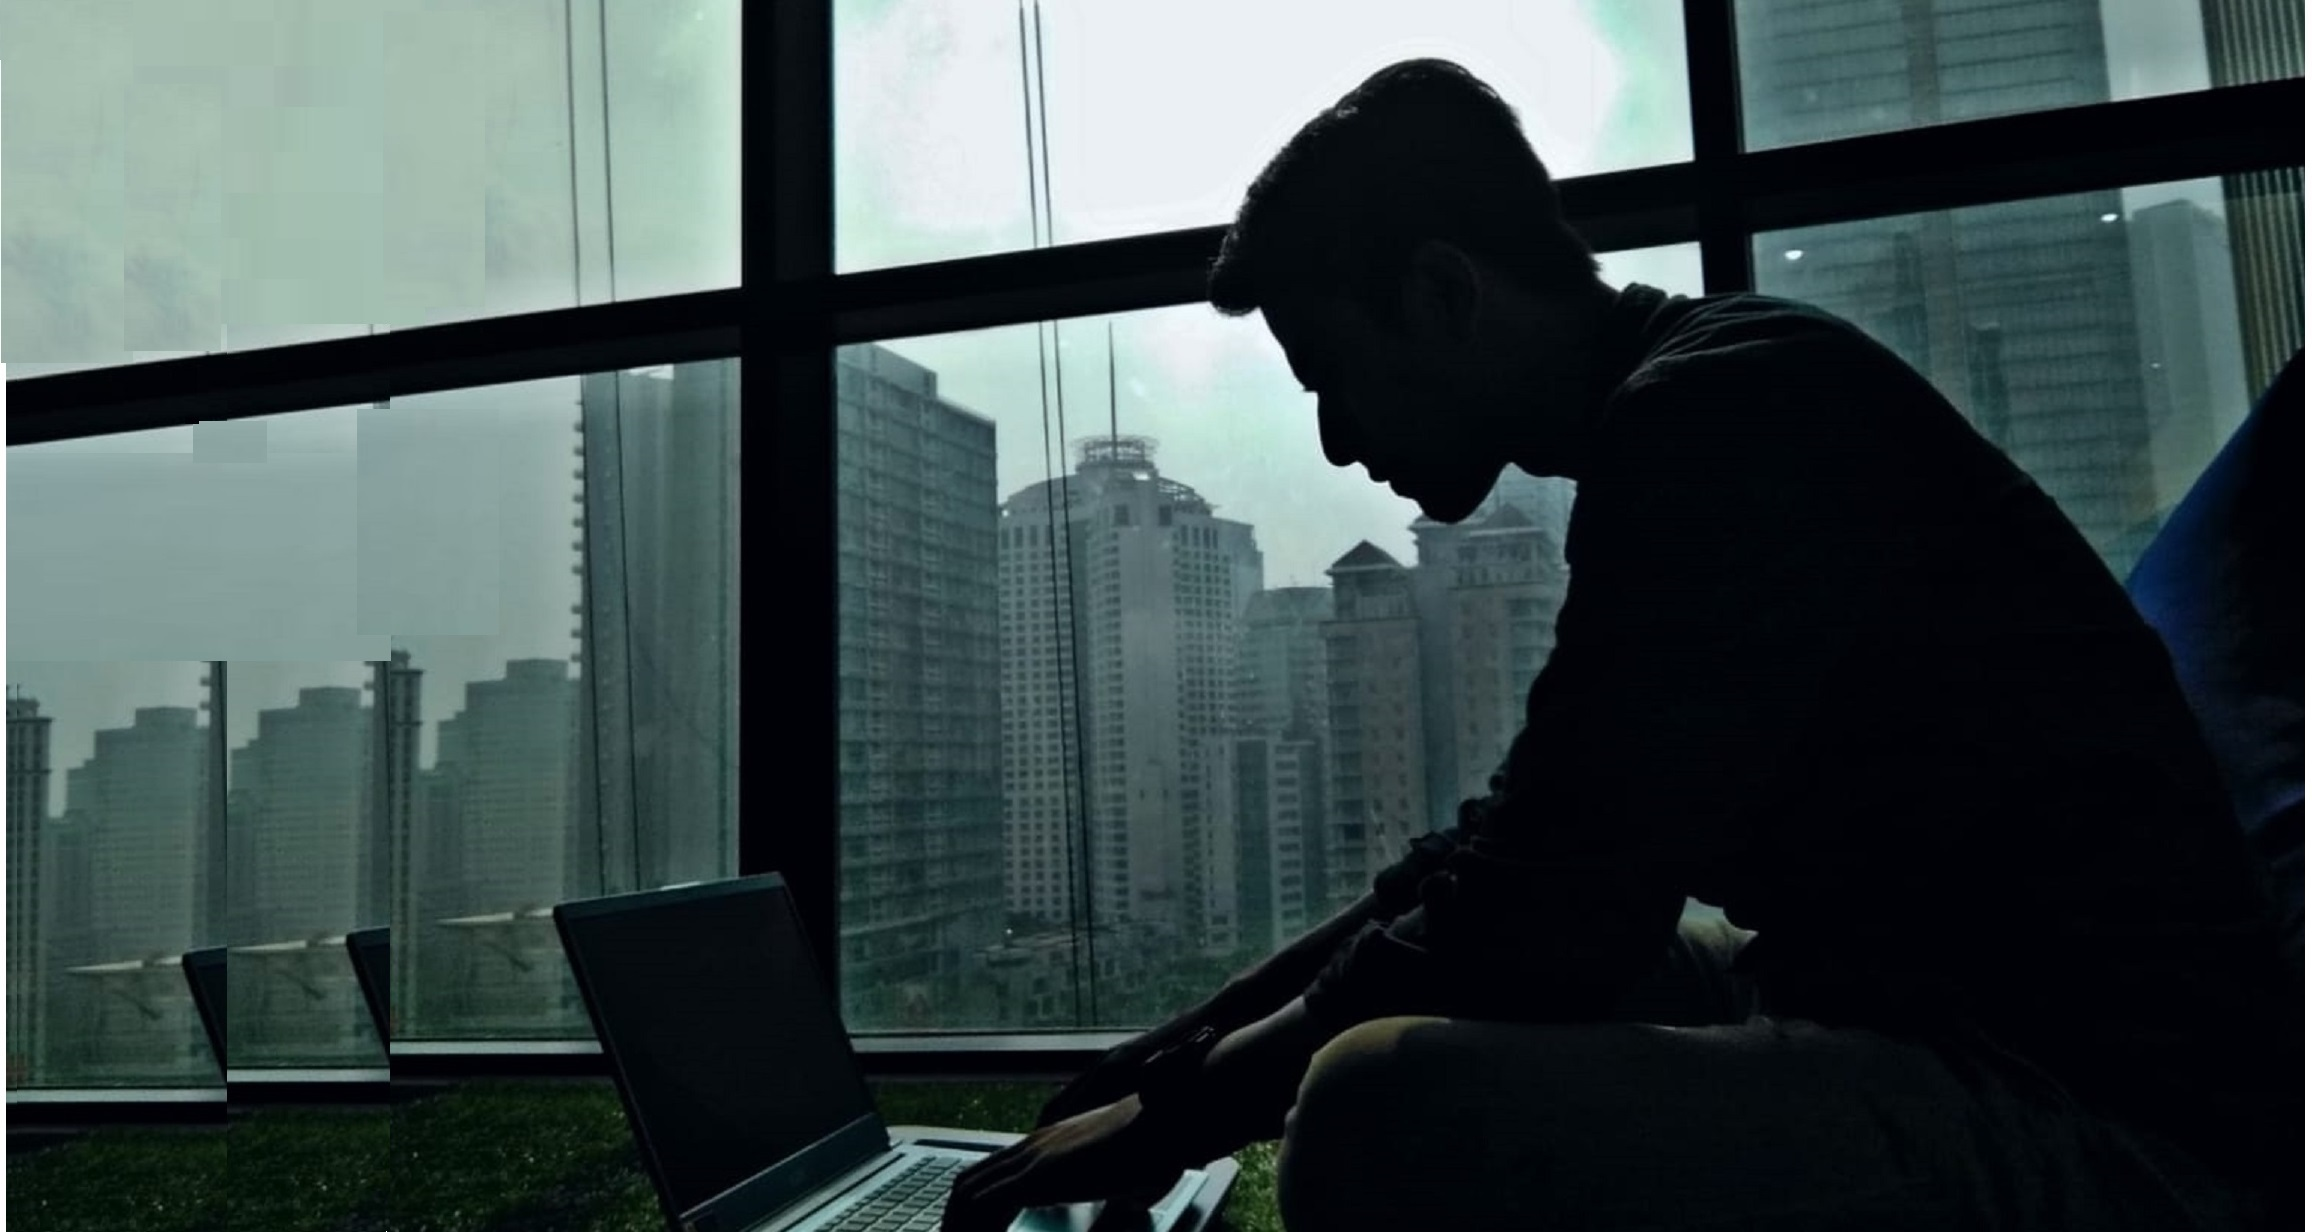
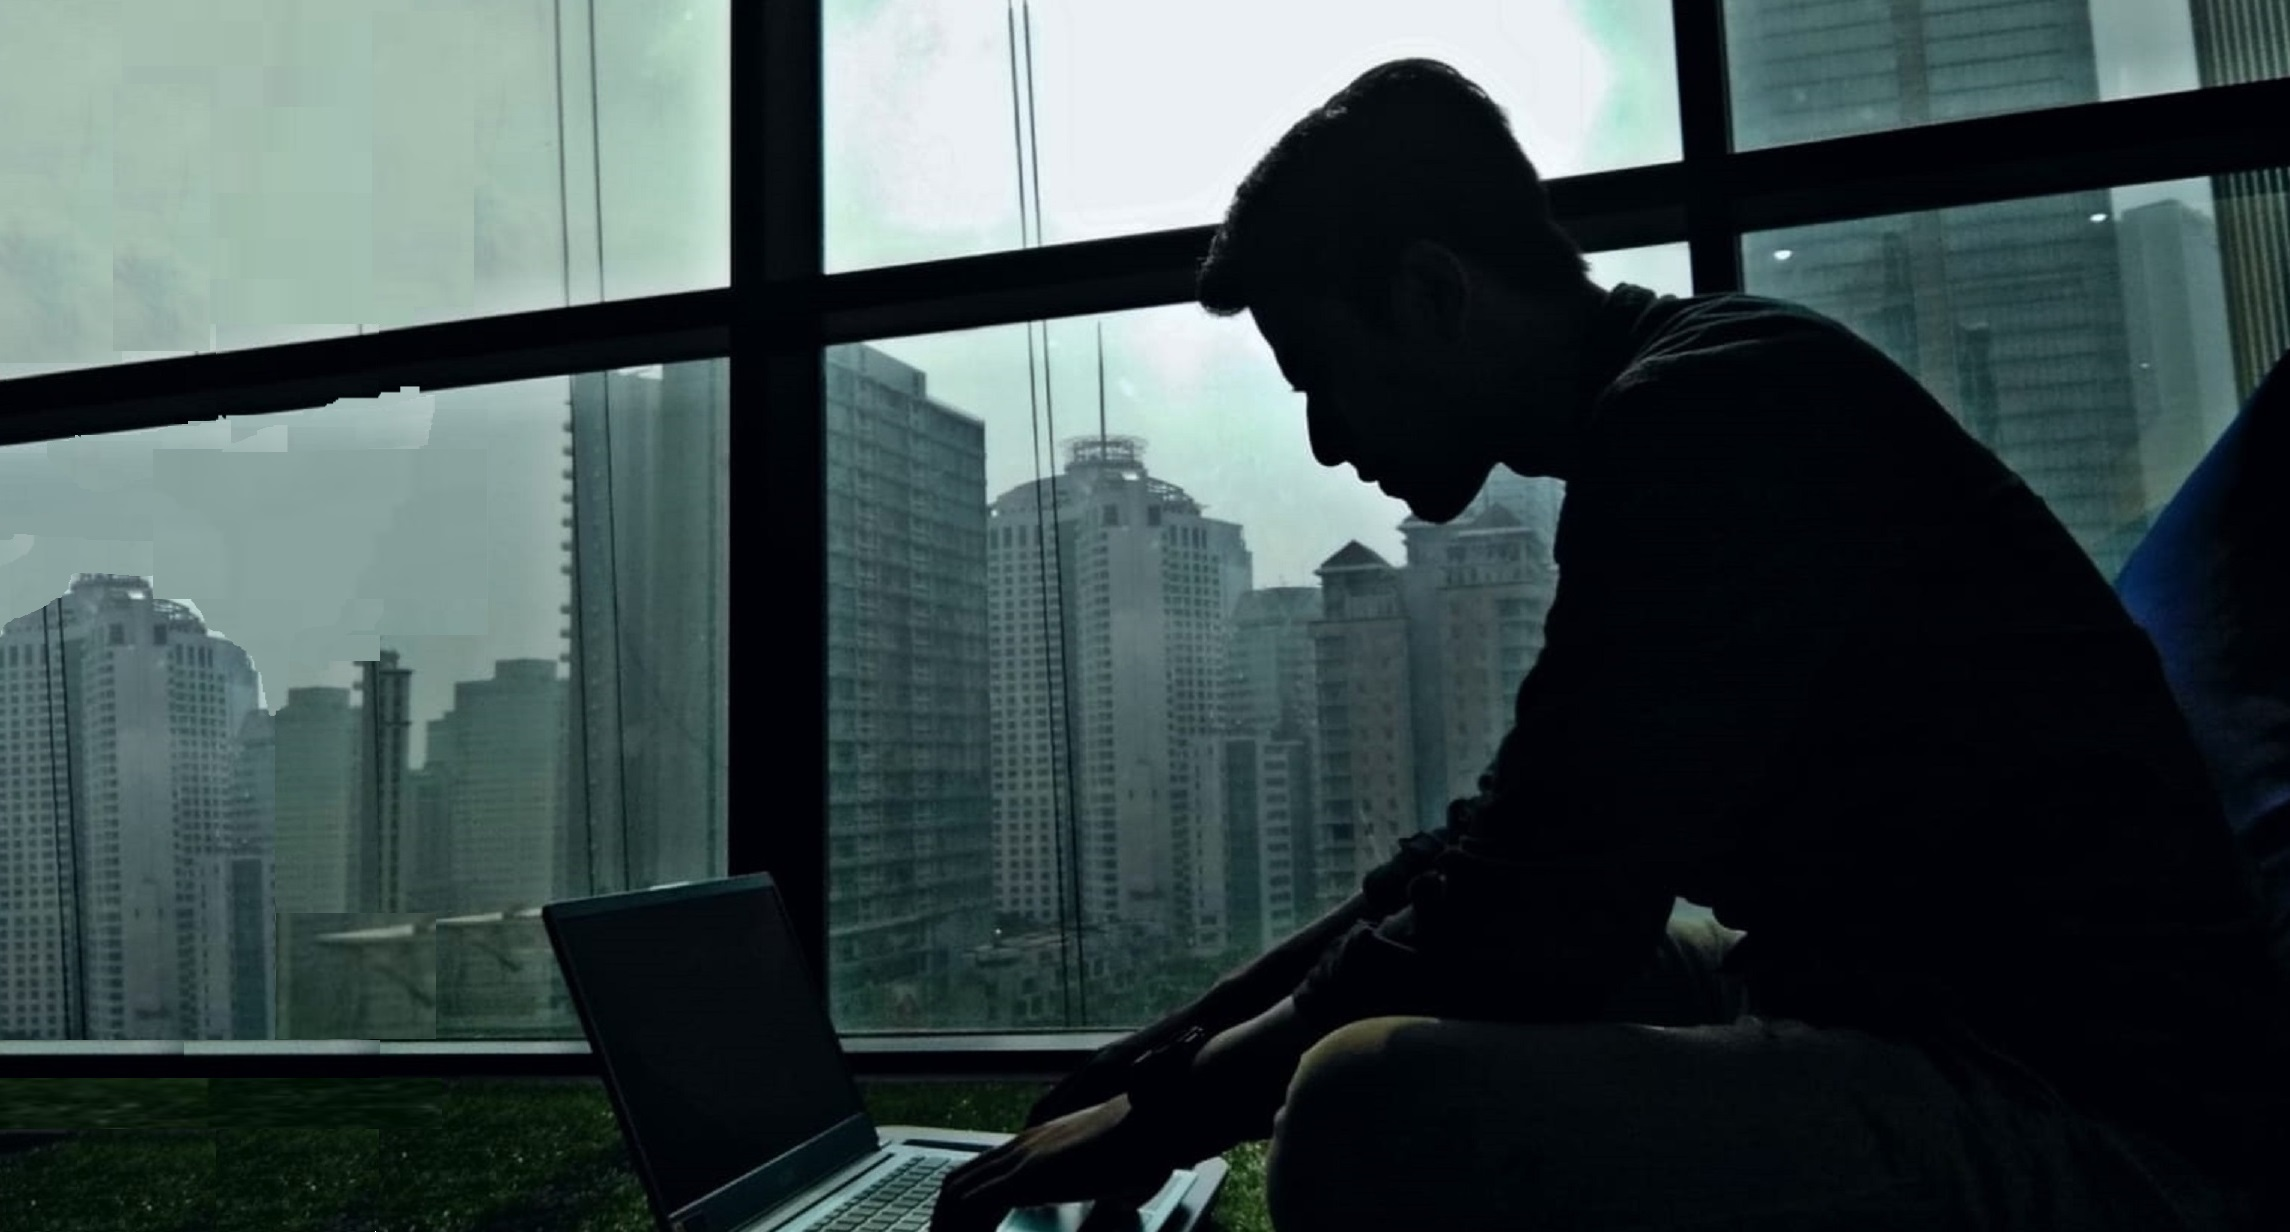
update assets

diff --git a/index.html b/index.html
@@ -73,19 +73,19 @@
       <div class="container" data-aos="fade-up">
         <div class="section-title">
           <h2>Tentang saya beserta kehidupannya</h2>
-          <p>Menjadi manusia normal pada dunia programming adalah sebuah pilihan yg sulit, sama juga halnya menjadi hidup
-            dalam programming. Begadang sepanjang project, bug yg tak kunjung usai atau stress dibayang-bayangi kalimat
+          <p>Menjadi manusia normal pada dunia programming adalah sebuah pilihan yg sulit. Begadang sepanjang project,
+            bug yg tak kunjung usai atau stress dibayang-bayangi kalimat
             deadline. Semua itu adalah nyanyian-nyanyian pengantar tidur <i>(meskipun pada ahirnya jadi gak bisa
-              tidur)</i>. Lalu kehidupan pun menempel kepada saya, sejak pertengahan tahun 2019 saya sudah mulai
+              tidur)</i>. Namun kehidupan pun menempel kepada saya, sejak pertengahan tahun 2019 saya sudah mulai
             terjerat siklus itu, terus dijejali makanan-makanan <i>(java, php)</i> setiap harinya. Mengeluh bercampur
-            senang adalah bagian dari hidup <i>(programmer)</i>, lalu dunia bertaruh hingga sekarang mengenal banyak
-            makanan lain <i>(bahasa / framework)</i>, mencicipi dan kemudian mencoba membuat sesuatu dari makanan itu.
-            Pada ahirnya saya merasa menjadi manusia <i>(programmer)</i> yang hidup</p>
+            senang adalah bagian dari hidup <i>(programmer)</i>, lalu dunia bertaruh hingga sekarang, mengenal beragam hidangan
+            <i>(bahasa / framework)</i>, mencicipi dan kemudian mencoba membuat sesuatu untuk hal baru.
+            Pada ahirnya saya merasa menjadi manusia <i>(programmer)</i> yang hidup.</p>
         </div>
 
         <div class="row" data-aos="fade-left" data-aos-delay="300">
           <div class="col-lg-5 block">
-            <img src="assets/img/new.png" class="organic-radius-left img-fluid">
+            <img src="assets/img/new2.jpg" class="organic-radius-left img-fluid">
           </div>
           <div class="col-lg-7 pt-4 pt-lg-0 content">
             <h4> Aktif sebagai Developer di INFOMEDIA</h4>
@@ -134,7 +134,7 @@
           <div class="col-lg-6">
             <h3 class="resume-title">Experience</h3>
             <div class="resume-item">
-              <h4>INFOMEDIA SOLUSI HUMANIKA</h4>
+              <h4>INFOMEDIA NUSANTARA</h4>
               <h5>2023 - Present</h5>
               <p><em>Java Developer</em></p>
               <ul>
@@ -146,7 +146,8 @@
               <h5>2022 - 2023</h5>
               <p><em>Java Developer</em></p>
               <ul>
-                <li>Mengelola service yang terintegrasi dengan beberapa pembayaran <i>(Mandiri, LinkAja, Gopay dll)</i></li>
+                <li>Mengelola service yang terintegrasi dengan beberapa pembayaran <i>(Mandiri, LinkAja, Gopay dll)</i>
+                </li>
               </ul>
             </div>
             <div class="resume-item">
@@ -305,6 +306,11 @@
         <a href="https://www.instagram.com/ahmadsalafudin.ig/" class="instagram"><i class="bx bxl-instagram"></i></a>
         <a href="https://www.youtube.com/c/filosofikoding" class="youtube"><i class="bx bxl-youtube"></i></a>
       </div>
+      <small class="mb-0"><i class='bx bx-copyright'></i> 2019 - <span id="year"></span>
+        <script>
+          document.getElementById("year").innerHTML = new Date().getFullYear();
+        </script>
+      </small>
     </div>
   </footer>
   <!-- Flyers -->

diff --git a/assets/css/style.css b/assets/css/style.css
@@ -19,7 +19,8 @@ h2,
 h3,
 h4,
 h5,
-h6 , p {
+h6,
+p {
   font-family: 'JetBrains Mono', monospace;
 }
 
@@ -280,7 +281,7 @@ li {
   #hero {
     width: 100%;
     height: 100vh;
-    background: url("../img/new.png") top center no-repeat;
+    background: url("../img/new.jpg") top center no-repeat;
     background-size: cover;
     position: relative;
   }
@@ -419,7 +420,7 @@ section {
   }
 
   .content {
-    margin-bottom:  -70px;
+    margin-bottom: -70px;
   }
 
   /* .content p {
@@ -919,11 +920,12 @@ section {
   font-family: 'JetBrains Mono', monospace;
 }
 
-#contact-form input[type=text], input[type=email]  {
+#contact-form input[type=text],
+input[type=email] {
   font-family: 'JetBrains Mono', monospace;
 }
 
-#contact-form textarea  {
+#contact-form textarea {
   font-family: 'JetBrains Mono', monospace;
 }
 
